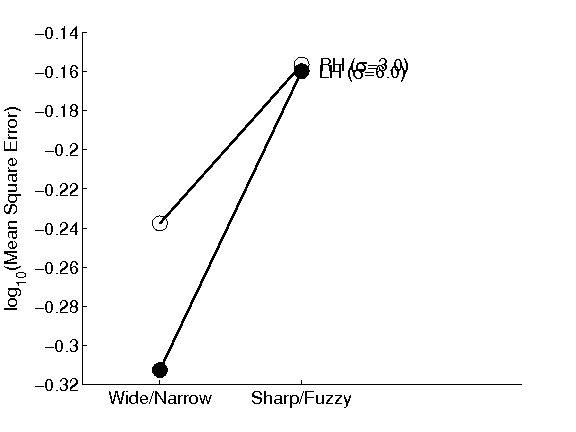
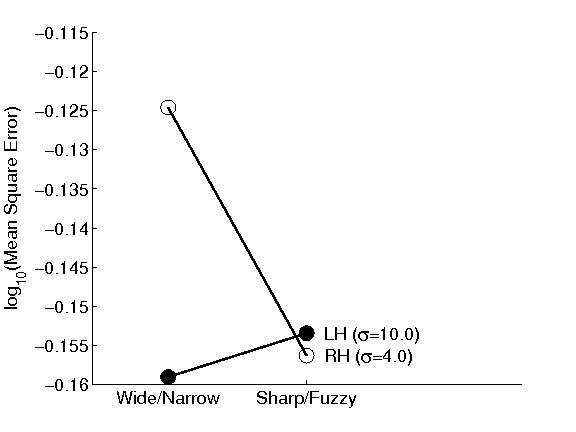
latest parameters

diff --git a/scripts/34x25_gauss/young_bion_1981/uber_face_small.m b/scripts/34x25_gauss/young_bion_1981/uber_face_small.m
@@ -1,19 +1,18 @@
 clear all variables; clear all globals;
 
-[args,opts]  = face_args('plots', {}, 'stats', {}, ...
-                            'runs',10, 'ac.zscore', 0.025, 'ac.EtaInit', 2E-1, 'ac.AvgError', 1E-4, 'ac.MaxIterations', 100,  ...
+[args,opts]  = face_args('plots', {'images','ffts'}, 'stats', {'images','ffts'}, ...
+                            'runs',5, 'ac.zscore', 0.025, 'ac.EtaInit', 2E-1, 'ac.AvgError', 2E-5, 'ac.MaxIterations', 100,  ...
                             'errorType', 1, ...
                             'p.errorType', 3,... % cross-entropy
-                            'p.XferFn', [6 3], ...  %sigmoid->sigmoid
-                            'p.zscore', 0.15, ...
-                            'p.EtaInit', 5.1E-2, ...
+                            'p.XferFn', [6 7], ...  %sigmoid->sigmoid
+                            'p.zscore', 0.25, ...
+                            'p.EtaInit', 5.4E-2, ...
                             'p.TrainMode', 'resilient', 'p.Acc', 1E-7, 'p.Dec', 0.25, ...
-                            'p.dropout', 0.0, ...
-                            'p.nHidden', 25, ...
+                            'p.dropout', 0.5, ...
+                            'p.nHidden', 30, ...
                             'p.wlim', 2.0*[-1 1], ...
-                            'p.MaxIterations', 500, ...
-                            'p.AvgError', 1E-4, 'p.rej.width', [NaN], 'p.rej.type', {'max'} ...
-                         
+                            'p.lambda',0.0,...
+                            'p.MaxIterations', 250 ...
                             );%'plots',{'hu-encodings', 'hu-output'}, 'stats',{'hu-encodings', 'hu-output'});
 
 % Run sergent task by training on all images

diff --git a/scripts/34x25_gauss/sergent_1982/uber_sergent_sergent.m b/scripts/34x25_gauss/sergent_1982/uber_sergent_sergent.m
@@ -2,18 +2,18 @@ clear all variables; clear all globals;
 
 plts = {'ls-bars', 'images','ffts'};
 stats = {'images','ffts'};
-[args,opts]  = sergent_args('plots',plts,'stats',stats,'runs',10, 'ac.zscore', 0.025, 'ac.EtaInit', 2E-1, 'ac.AvgError', 1E-4, 'ac.MaxIterations', 100,  ...
+[args,opts]  = sergent_args('plots',plts,'stats',stats,'runs',2, 'ac.zscore', 0.025, 'ac.EtaInit', 2.1E-1, 'ac.AvgError', 1E-4, 'ac.MaxIterations', 100,  ...
                             'errorType', 1, ...
                             'p.errorType', 3,... % cross-entropy
                             'p.XferFn', [6 3], ...  %sigmoid->sigmoid
                             'p.zscore', 0.15, ...
-                            'p.EtaInit', 5.1E-2, ...
+                            'p.EtaInit', 2E-2, ...
                             'p.TrainMode', 'resilient', 'p.Acc', 1E-7, 'p.Dec', 0.25, ...
                             'p.dropout', 0.0, ...
                             'p.nHidden', 25, ...
                             'p.wlim', 2.0*[-1 1], ...
                             'p.MaxIterations', 50, ...
-                            'p.AvgError', 1E-4, 'p.rej.width', [NaN], 'p.rej.type', {'max'} ...
+                            'p.AvgError', 7.5E-5, 'p.rej.width', [NaN], 'p.rej.type', {'max'} ...
                             );
 % Run sergent task by training on all images
 [trn, tst] = de_SimulatorUber('uber/natimg', 'sergent_1982/de/sergent',         opts, args);

diff --git a/scripts/34x25_gauss/common_args.m b/scripts/34x25_gauss/common_args.m
@@ -14,7 +14,7 @@ function [cargs, opts] = common_args(varargin)
   cargs = {  'parallel', false, 'debug', 1:10, 'ac.debug', 1:10, 'p.debug', 1:10, ...
              'runs',    40,          'ac.randState', 2,   'p.randState', 2, ...
              'distn',   {'norme'},    'mu',         0,    'sigma',       [ 4 10 ], ...
-             'nHidden', 102*8,        'hpl',         8,    'nConns',      12, ...
+             'nHidden', 102*16,       'hpl',        16,    'nConns',      12, ...
              ...% Input
              'ac.zscore', 0.05, ...
              'ac.tol',    0*34/25, ... %tolerance for disconnected pixels
@@ -24,7 +24,7 @@ function [cargs, opts] = common_args(varargin)
              'ac.AvgError', 1E-4,         'ac.MaxIterations', 60, ...
              'ac.dropout', 0.5, ...
              'ac.TrainMode','resilient',      'ac.Pow', 1, ... %gradient power (usually 1)
-             'ac.EtaInit',  2.22E-2,         'ac.Acc', 1E-7, 'ac.Dec', 0.25, ... %5E-7 tanh#2, bias=1 resilient
+             'ac.EtaInit',  2.23E-2,         'ac.Acc', 1E-7, 'ac.Dec', 0.25, ... %5E-7 tanh#2, bias=1 resilient
              ...
              'ac.WeightInitScale', 0.01, ...
              'ac.wlim',            [-inf inf], ...

diff --git a/scripts/34x25_gauss/young_bion_1981/face_args.m b/scripts/34x25_gauss/young_bion_1981/face_args.m
@@ -16,6 +16,10 @@ function [args,opts] = face_args(varargin)
              'p.lambda',   0.00,         ...% regularization
              'p.wlim', [-inf inf], ... %output
              ...
+             'p.rej.props', {'err'}, ... %err,max,nan
+             'p.rej.type',  {'sample_std-normd'}, ...
+             'p.rej.width', [3], ...%3] ...
+             ...
              'plots', {'ffts','images'}, ...
              'stats', {'ffts','images'}, ...
              varargin{:} );
